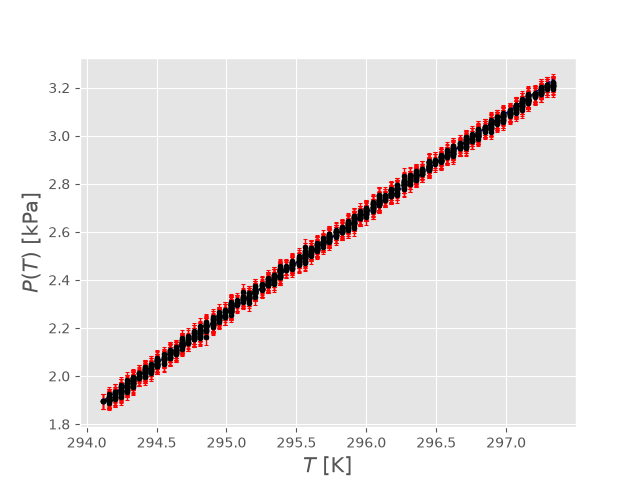
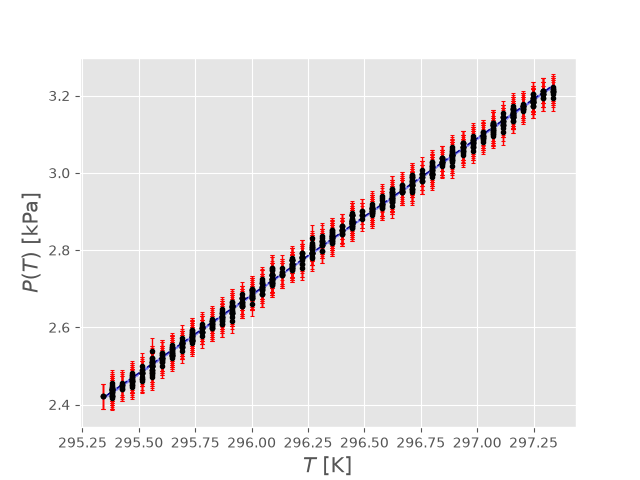
commentato e modificato limite inferiore

diff --git a/gay_lussac.py b/gay_lussac.py
@@ -9,7 +9,7 @@ plt.style.use("ggplot")
 cost_temp_termometro = 95.8
 
 # 2 costanti di tempo per considerare il tempo di accendere la resistenza e la reazione del termometro
-inf_tlim = 2.5*cost_temp_termometro 
+inf_tlim = 3*cost_temp_termometro 
 P_0 = 100.82 # kPa
 dP = 0.005 # kPa
 dT = 0.05 # °C = K
@@ -46,26 +46,29 @@ for i in range(1, N_misure+1):
     fit = LinearFit(df_fit, "T", "P", "dP", True)
     a = fit.get_fit_params()[0][0]
 
+    # stimo le nuove incertezze contanto anche quelle su T
     dP_new = sqrt(dP**2 + (a*dT**2))
     df_fit["dP"] = [dP_new for ti in t]
 
+    # fit finale
     fit = LinearFit(df_fit, "T", "P", "dP", True)
     p, cov = fit.get_fit_params()
 
     chi2 = fit.get_chi2().chi2
     df = fit.get_chi2().df
-    a = fit.get_fit_params()[0][0]
+    a = p[0]
     da = sqrt(cov[0][0])
     a_exp = (P[0]+P_0)/T[0]
 
-    # print(f"a = {a} +- {da}")
-    # print("a_exp = ", a_exp)
-    # print("chi2 = ", chi2)
-    # print("df = ", df)
-    # print("sqrt(df) = ", sqrt(df))
+    print(f"a = {a} +- {da}")
+    print("a_exp = ", a_exp)
+    print("chi2 = ", chi2)
+    print("df = ", df)
+    print("sqrt(df) = ", sqrt(df))
 
     z = abs(a_exp - a)/da
-    print(z)
+    print("z = ", z)
+    print("\n")
 
     fig, ax = plt.subplots()
     fit.graph(ax, ("$T$ [K]", "$P(T)$ [kPa]"), 3, 15)
